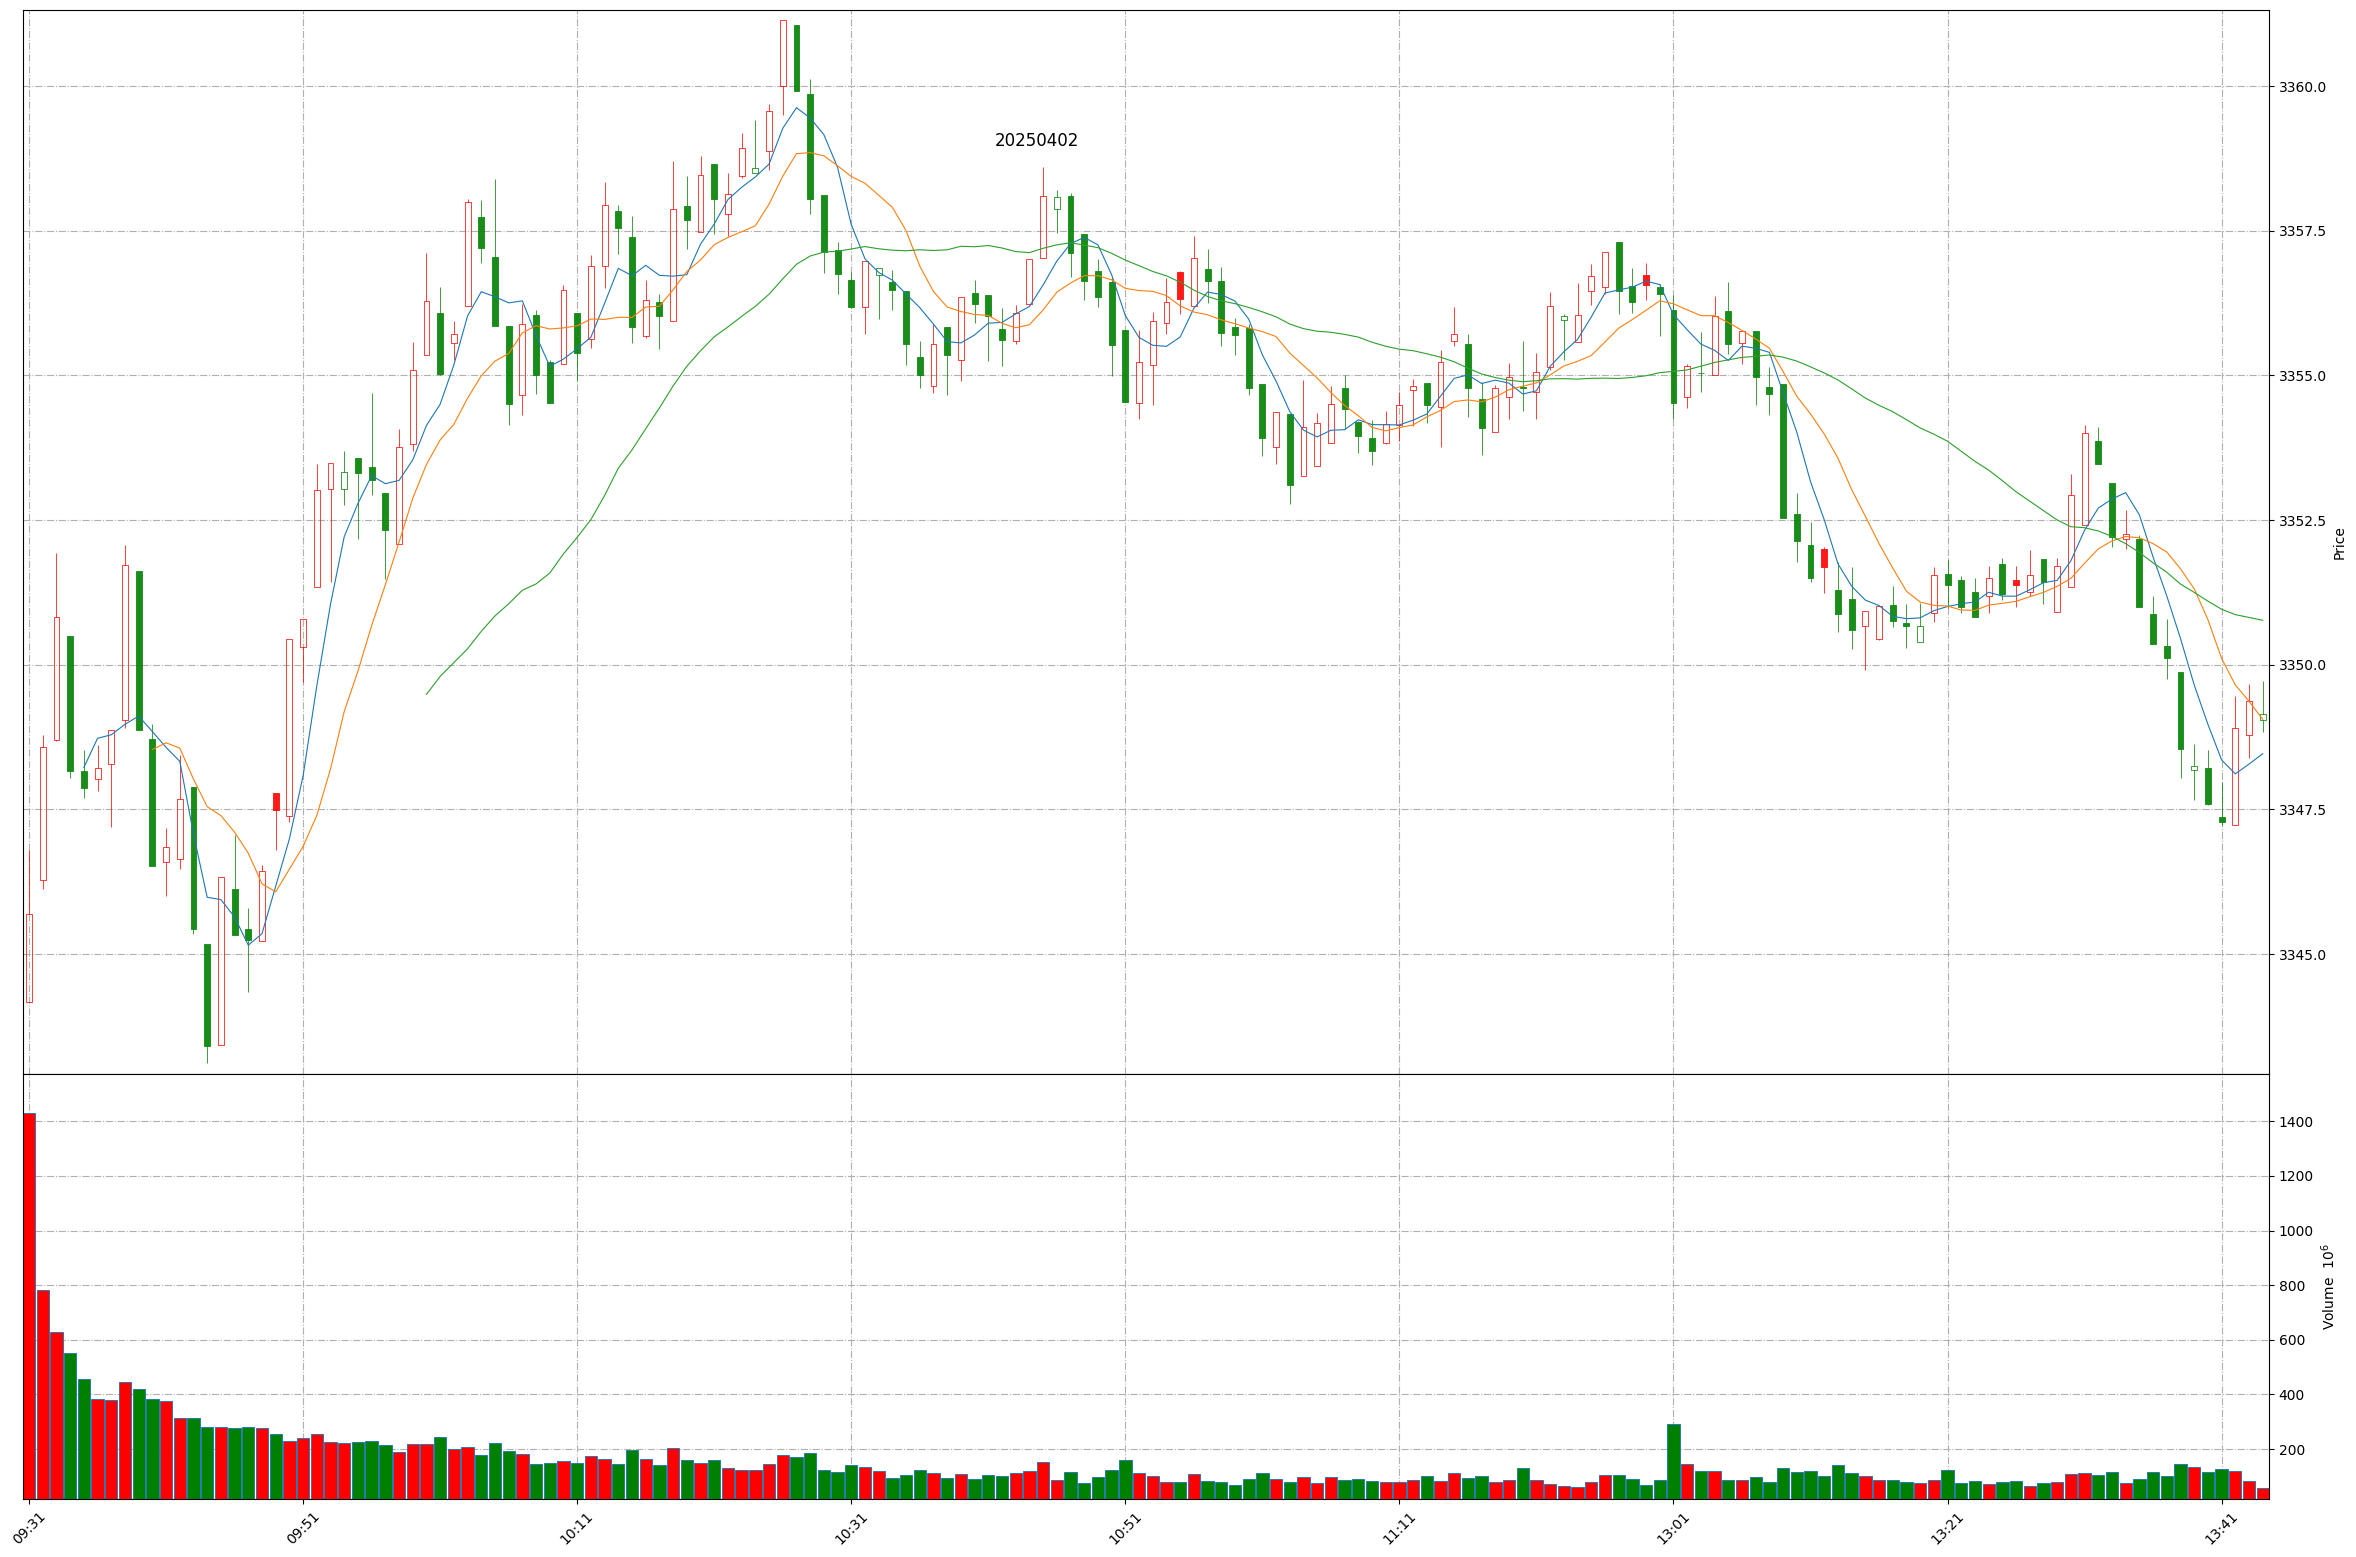
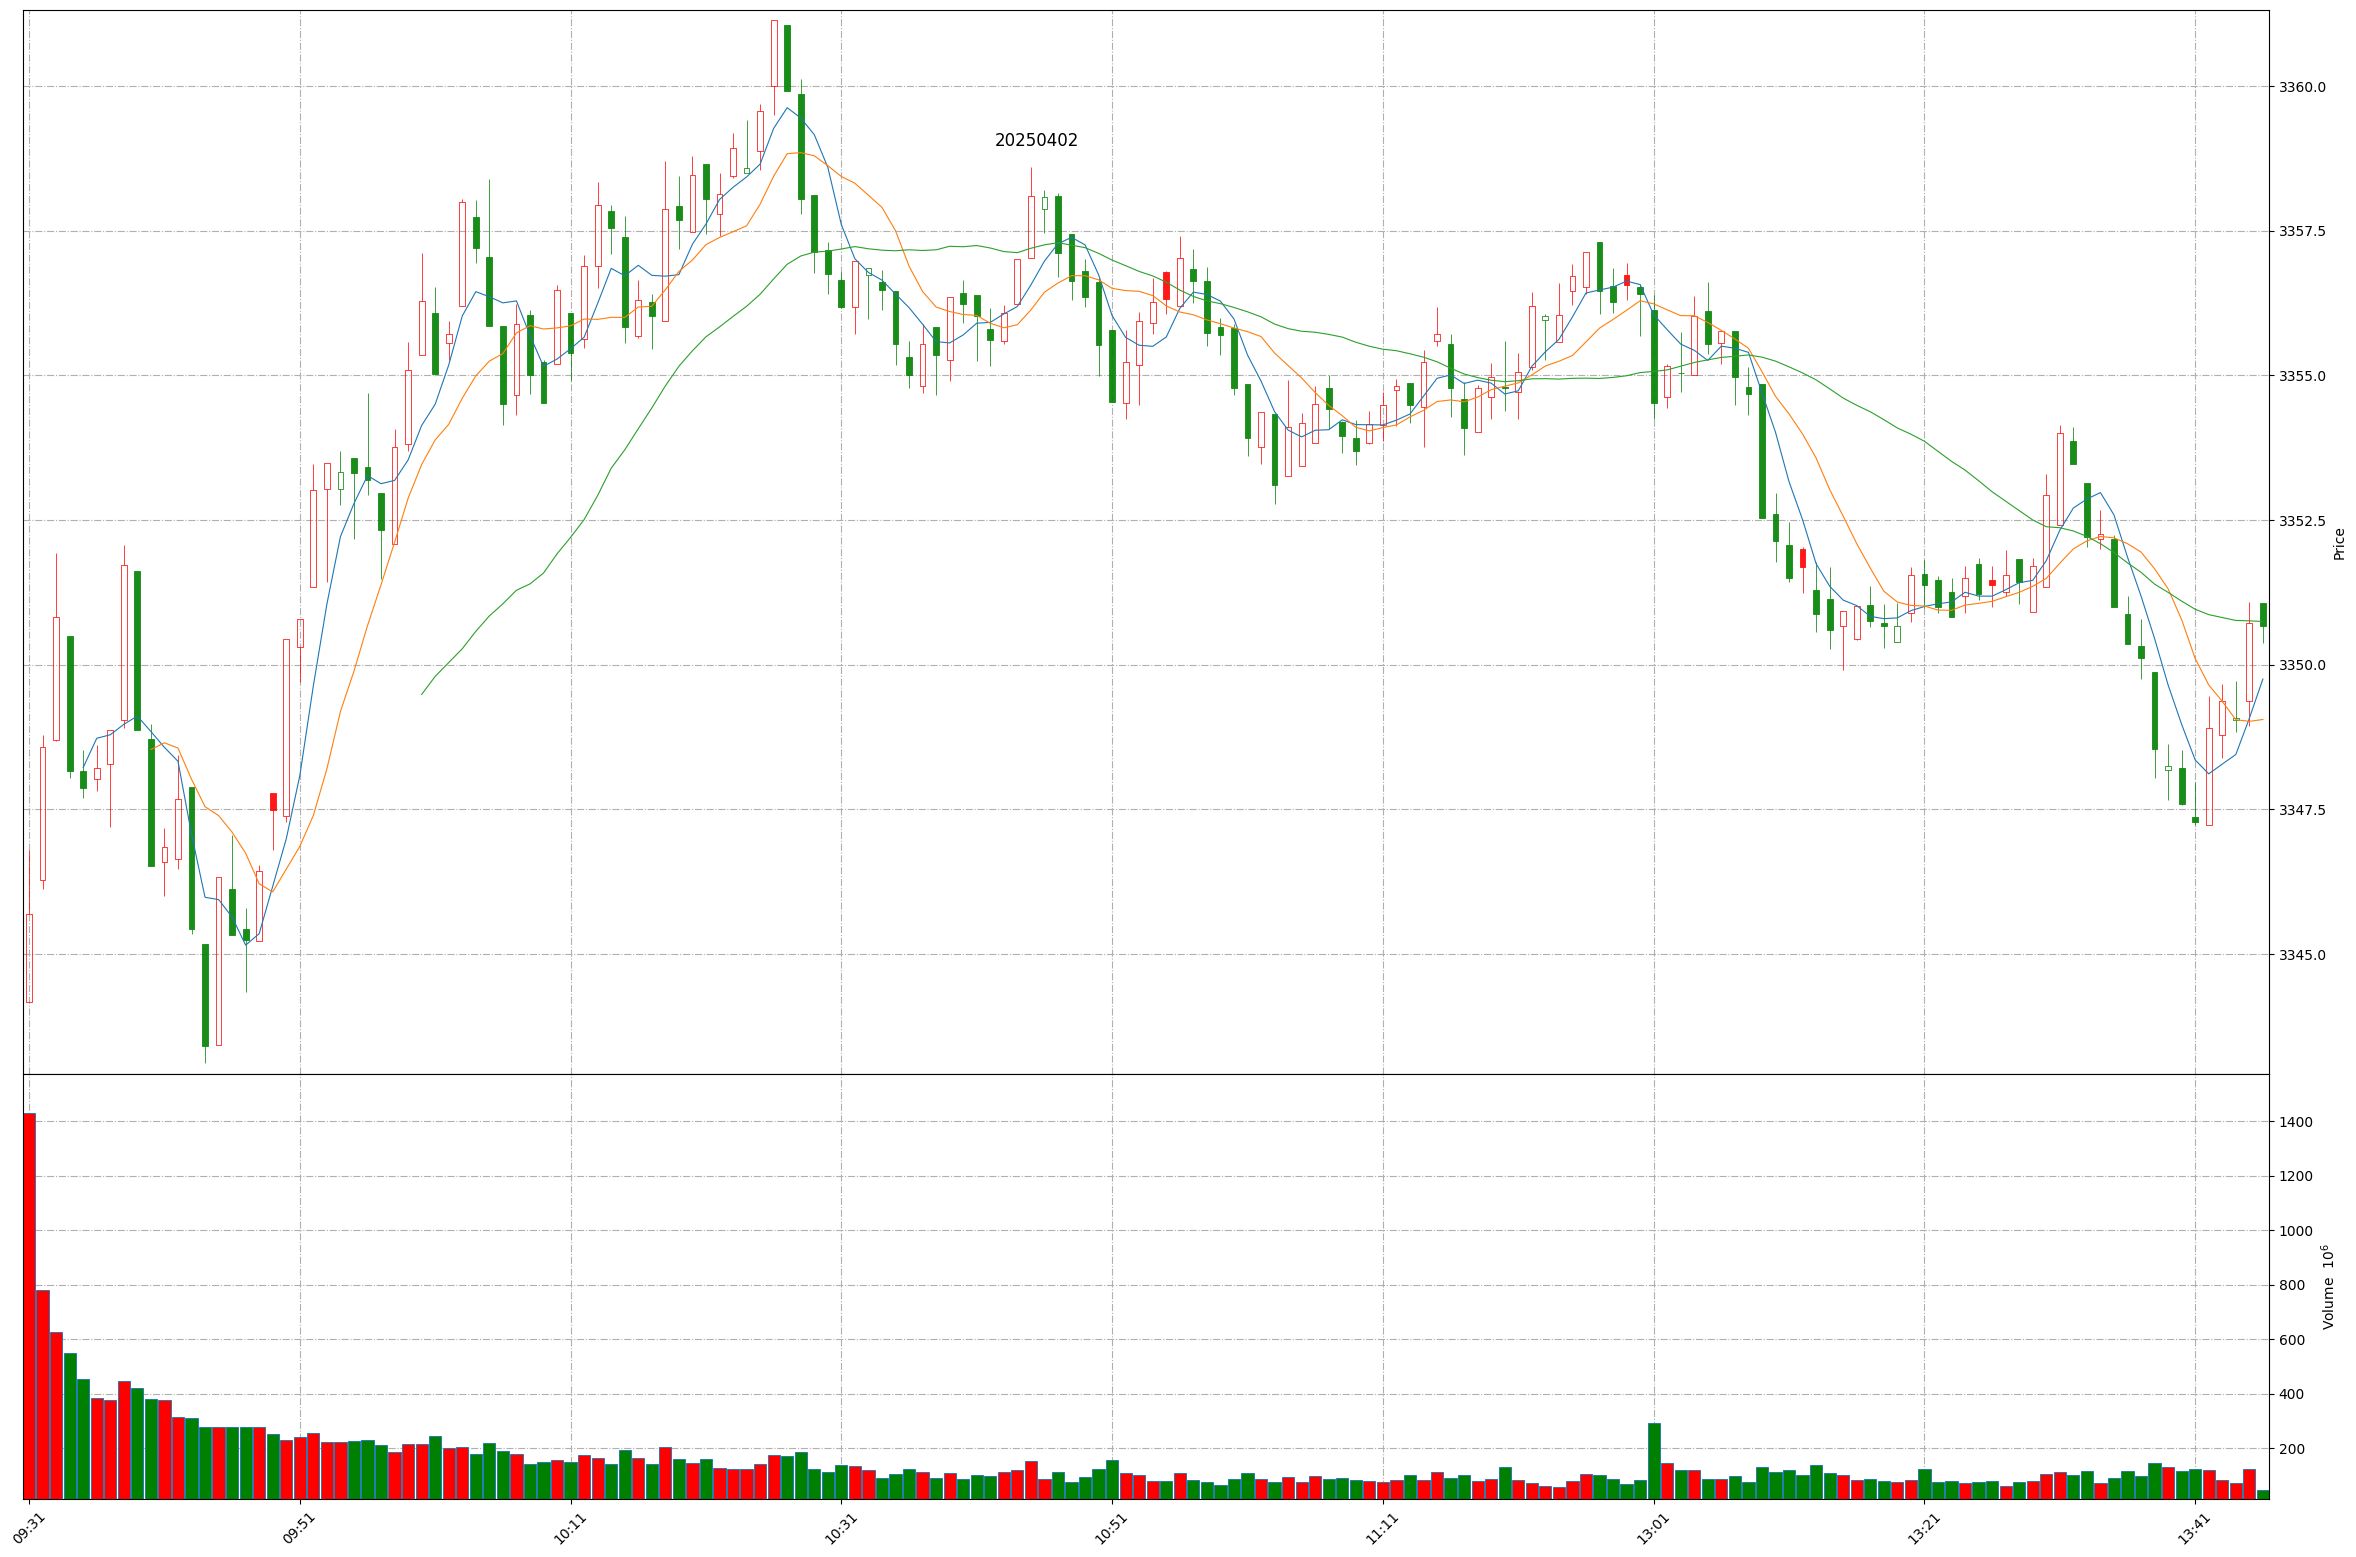
Github action update at 2025-04-02 13:45:51.

diff --git a/README.md b/README.md
@@ -1,11 +1,11 @@
 
 # Daily-A-share-market-quotes 每日 A 股指数（5min 更新）- 20250402
 
-### 上证指数 20250402 13:44
+### 上证指数 20250402 13:45
 ![](./fig/2025/4/20250402-sh000001.png)
 
-### 深证成指 20250402 13:44
+### 深证成指 20250402 13:45
 ![](./fig/2025/4/20250402-sz399001.png)
 
-### 北证50 20250402 13:44
+### 北证50 20250402 13:45
 ![](./fig/2025/4/20250402-bj899050.png)
